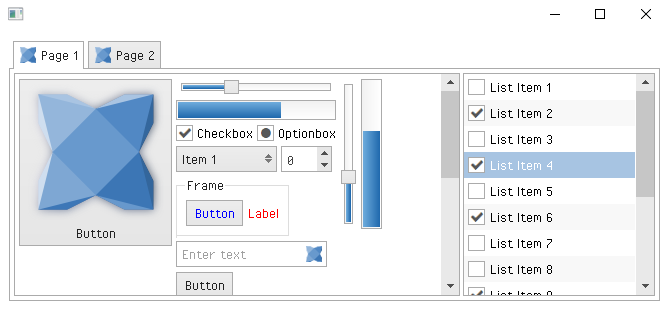
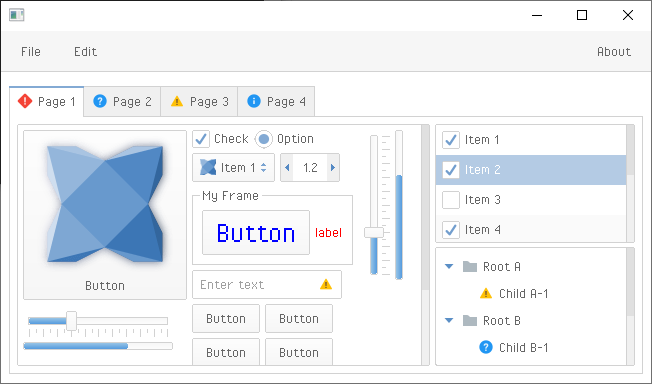
update docs

Changed region(s): [[0.0, 0.1161, 1.0, 1.0], [0.0, 0.0, 1.0, 0.0871], [0.9202, 0.1161, 0.9816, 0.1452]]

diff --git a/000-Getting Started/003-Backends/000-Composite Backends/003-haxeui-flixel.md b/000-Getting Started/003-Backends/000-Composite Backends/003-haxeui-flixel.md
@@ -3,9 +3,7 @@ haxeui-flixel
 
 haxeui-flixel is the Flixel backend for HaxeUI.
 
-![](./_assets/haxeui-flixel-preview_no_border.png)
-
-_Note: haxeui-flixel comes with a specialised version of the default theme that mainly uses slice-9 bitmaps. This is partially because flixel is optimised to use bitmpas and partially because it fits with already existing flixel UI libraries and coomponents - plus the retro look is pretty cool!_
+![](./_assets/haxeui-flixel-preview.png)
 
 ## Installation
 haxeui-flixel has a dependency to haxeui-core, and so that too must be installed. Once haxeui-core is installed, haxeui-flixel can be installed using:

diff --git a/000-Getting Started/003-Backends/000-Composite Backends/005-haxeui-heaps.md b/000-Getting Started/003-Backends/000-Composite Backends/005-haxeui-heaps.md
@@ -3,7 +3,7 @@ haxeui-heaps
 
 haxeui-heaps is the Heaps backend for HaxeUI.
 
-![](./_assets/haxeui-heaps-preview_no_border.png)
+![](./_assets/haxeui-heaps-preview.png)
 
 ## Installation
 haxeui-heaps has a dependency to haxeui-core, and so that too must be installed. Once haxeui-core is installed, haxeui-heaps can be installed using:
